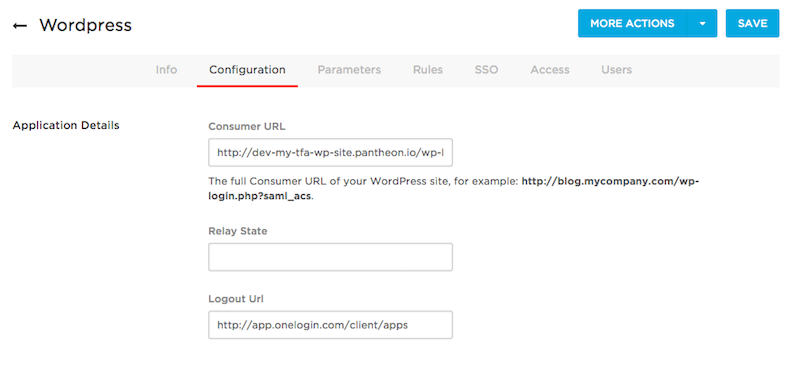
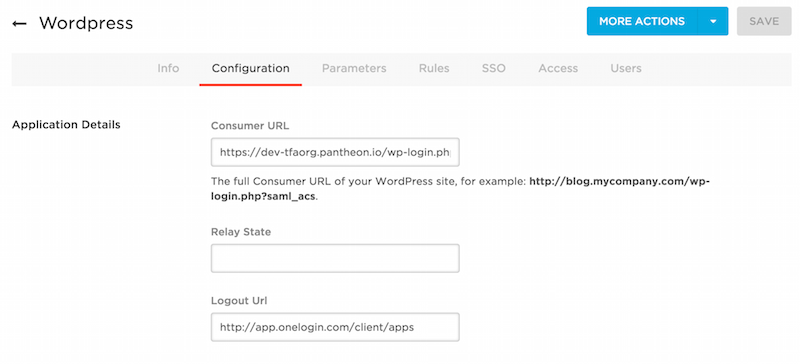
Update to OneLogin configure page image. Content updates for clarity.

diff --git a/source/docs/guides/two-factor-authentication.md b/source/docs/guides/two-factor-authentication.md
@@ -41,7 +41,7 @@ For an organization-wide solution, there are many different [WordPress plugins f
 2. Install the WordPress SAML 2.0 app connector as part of the OneLogin dashboard. This needs to be done for each WordPress site that is being managed by OneLogin.
 3. Edit the OneLogin WordPress app connector to provide the appropriate default values for the Configuration section. Other sections should already be set up correctly. 
 ![TFA OneLogin Config](../assets/images/tfa-wp-onelogin-config.png)
-4. Configure the **Authentication Factors** found under Settings, and add a TFA solution that will work for your users.
+4. **(Optional Step)** Configure the **Authentication Factors** found under Settings for a list of authentication factors you can enable for your different users. 
 ![TFA OneLogin Methods](../assets/images/tfa-onelogin-tfa-methods.png)
 5. Create user accounts in the Users Administration area of OneLogin, and click **New User**. Make sure that the “Username” and "Email" fields in OneLogin match their WordPress username and email.
 ![TFA OneLogin New User](../assets/images/tfa-onelogin-new-user.png)
@@ -51,7 +51,7 @@ For an organization-wide solution, there are many different [WordPress plugins f
 1. Install and activate the [OneLogin plugin](https://wordpress.org/plugins/onelogin-saml-sso/) on your WordPress site.
 2. Configure the **Identity Provider Settings** in the SSO/SAML Settings within the WordPress Admin to provide the appropriate values, which are available in the SSO section of the OneLogin Configuration page.
 ![TFA OneLogin Ident](../assets/images/tfa-wp-onelogin-ident.png)
-3. Configure the **Attribute** in the SSO/SAML Settings in the WordPress Admin to provide the appropriate values, which are available in the Parameters section of the OneLogin Configuration page.
+3. Configure the **Attribute** in the SSO/SAML Settings in the WordPress Admin. Please note to match what is in the screenshot and the values are case-sensitive."
 ![TFA OneLogin Attributes](../assets/images/tfa-wp-onelogin-attribute.png)
 4. Configure the **Customize Actions and Links** in the SSO/SAML Settings within the WordPress Admin to **Prevent local login**. This requires OneLogin as the authentication solution.
 ![TFA OneLogin Custom Actions](../assets/images/tfa-onelogin-custom-actions.png)
@@ -92,7 +92,7 @@ For an organization-wide solution, there are many different [Drupal modules for 
 ### Drupal Instructions
 
 1. Install and enable the GitHub version of the [OneLogin module](https://github.com/onelogin/drupal-saml) on your Drupal site. This module is eventually intended to live on Drupal.org as the [2.x branch of the OneLogin project](https://www.drupal.org/project/onelogin).
-2. Configure the OneLogin module `admin/config/onelogin_saml` to provide the appropriate values, which are available in the SSO and Parameters section of the OneLogin Configuration page. 
+2. Configure the OneLogin module `admin/config/onelogin_saml` to provide the appropriate values. Please note to match what is in the screenshot and the values are case-sensitive. 
 ![TFA OneLogin Options](../assets/images/tfa-drupal-onelogin-options.png)
 3. Now use the OneLogin dashboard to log in to your Drupal site! 
 
